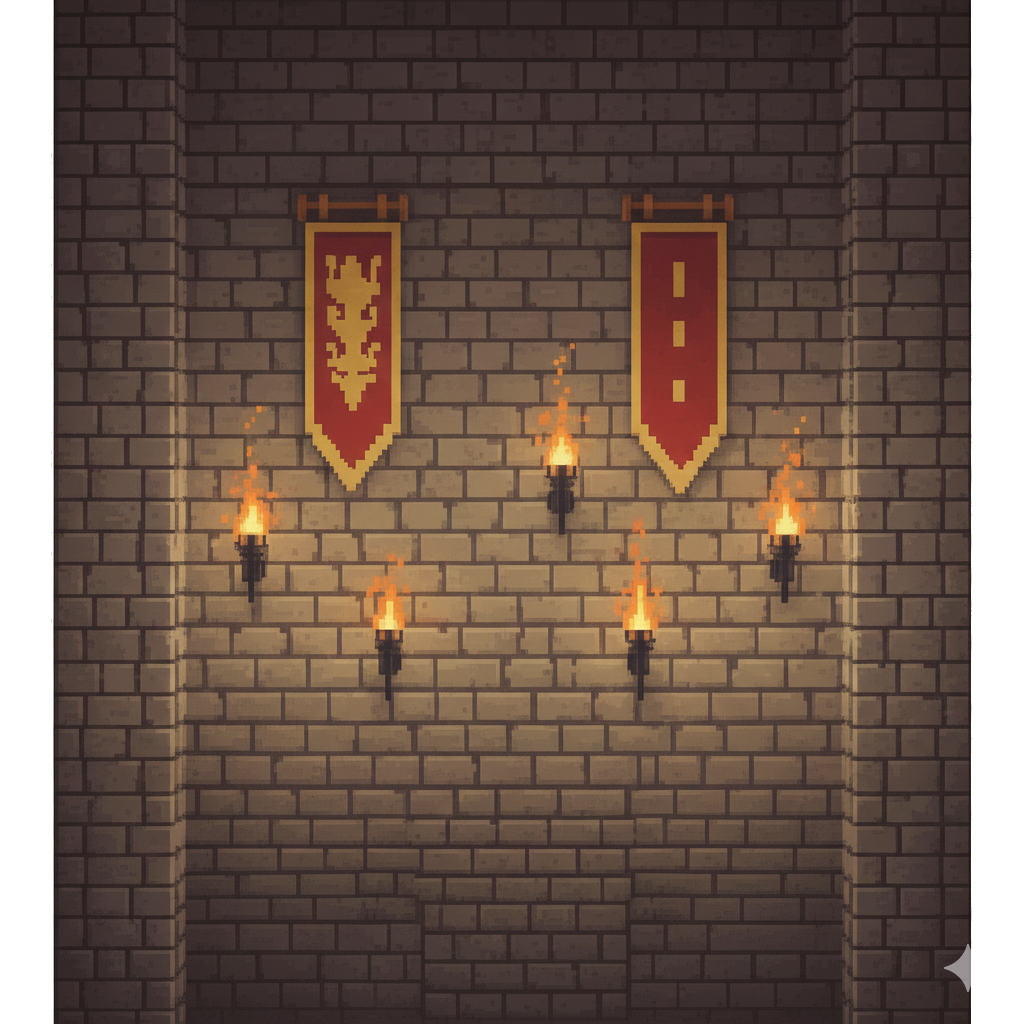
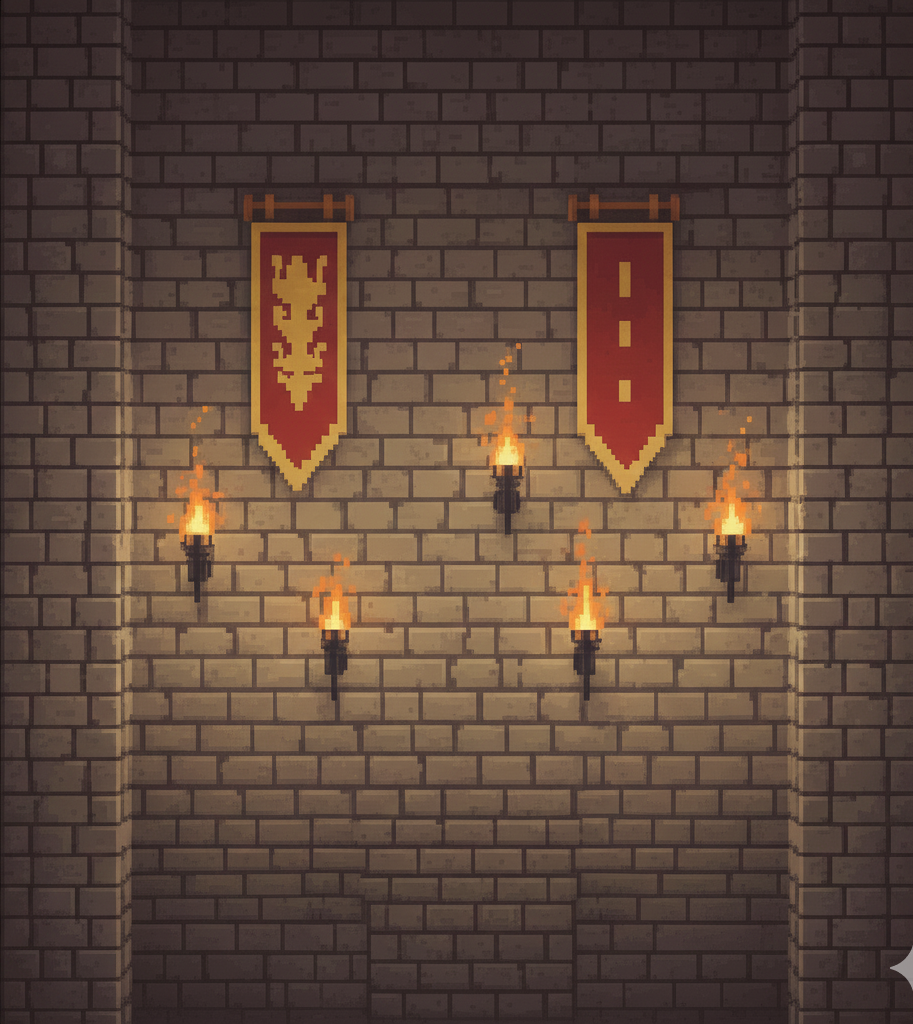
WIP (Class Game)

diff --git a/Entrega Trabajo Practico Integrador/source/main.cpp b/Entrega Trabajo Practico Integrador/source/main.cpp
@@ -9,25 +9,25 @@
 #include "Jugador.hpp" 
 #include "Game.hpp"
 
-
+#include "raymath.h"
 
 
 int main(void)
 {
-    const int anchoPantalla = 1024;
-    const int altoPantalla = 768;
 
-    InitWindow(anchoPantalla, altoPantalla, "Nivel 1 - Alcanza la zona");
+
+    Rectangle pantalla = { 0,0,1024, 768 };
+
+    InitWindow(pantalla.width, pantalla.height, "Nivel 1 - Alcanza la zona");
 
     SetTargetFPS(60);
 
-    
-    
-    // Iniciamos el dispocitivo de audio
-    InitAudioDevice();
-
     Game* partida = new Game();
     Jugador* J1 = new Jugador();
+
+
+    // Iniciamos el dispocitivo de audio
+    InitAudioDevice();
   
 
     // Color del Boton

diff --git a/Entrega Trabajo Practico Integrador/source/Game.hpp b/Entrega Trabajo Practico Integrador/source/Game.hpp
@@ -5,6 +5,7 @@
 #endif
 
 #include "raylib.h"
+#include "raymath.h"
 #include <cstdlib>
 #include <time.h>
 #include "Jugador.hpp"
@@ -14,14 +15,15 @@ class Game
 
 public:
 
-	Color fondolvl1 = WHITE;
 
+	//Parametros fondo
+	Texture2D fondo = LoadTexture("Assets/Fondo castillo.png");
 
+	Rectangle pantalla = { 0, 0, 1024, 768 };
 
-	Texture2D fondo = LoadTexture("Assets/fondo castillo.png");
+	Color fondoCol = WHITE;
 
-	float escFondo = 0.5f;
-
+	//funciones del mouse
 	Vector2 posicionCursor = GetMousePosition();
 
 	// Contador de veces presionada la tecla M para mostrar/ocultar msj de sistema

diff --git a/Entrega Trabajo Practico Integrador/source/Jugador.hpp b/Entrega Trabajo Practico Integrador/source/Jugador.hpp
@@ -5,6 +5,7 @@
 #endif
 
 #include "raylib.h"
+#include "raymath.h"
 #include <cstdlib>
 #include <time.h>
 
@@ -12,10 +13,10 @@ class Jugador
 {
 private:
 	
-    // Cargamos el sonido para el salto
+    //sonido para el salto
     Sound jump = LoadSound("Assets/jump.wav");
 
-    // Cargamos la textura del personaje
+    // textura del personaje
     Texture2D personaje = LoadTexture("Assets/Knight.png");
 
     // Posicion predeterminada del personaje

diff --git a/Entrega Trabajo Practico Integrador/source/Game.cpp b/Entrega Trabajo Practico Integrador/source/Game.cpp
@@ -4,6 +4,7 @@
 #endif
 
 #include "raylib.h"
+#include "raymath.h"
 #include <cstdlib>
 #include <time.h>
 
@@ -12,6 +13,7 @@
 
 Game::Game()
 {
+
 
 }
 
@@ -38,7 +40,7 @@ void Game::mensajeSistma()
 
 void Game::dibujarFondo() 
 {
-	DrawTextureEx(fondo, {0,0}, 0, escFondo, WHITE);
+	DrawTexturePro(fondo, pantalla, pantalla, Vector2Zero(), 0 , fondoCol);
 }
 
 void Game::nivel1()

diff --git a/Entrega Trabajo Practico Integrador/source/Jugador.cpp b/Entrega Trabajo Practico Integrador/source/Jugador.cpp
@@ -4,6 +4,7 @@
 #endif
 
 #include "raylib.h"
+#include "raymath.h"
 #include <cstdlib>
 #include <time.h>
 
